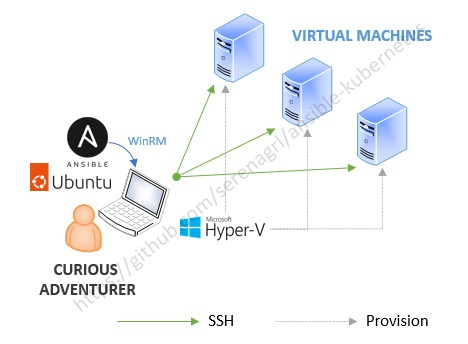
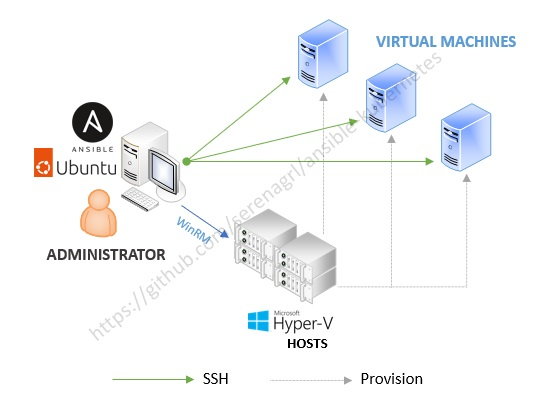
Updated diagram.

diff --git a/README.md b/README.md
@@ -1,5 +1,3 @@
-![Kubernetes on Hyper-V (Using Ansible)](docs/images/ansible-kubernetes.jpg)
-
 # Kubernetes on Hyper-V
 A collection of Ansible playbooks and roles to create a Kubernetes cluster on Hyper-V, either for testing/learning purposes or SIT/Proof-of-Concept environments. These playbooks and add-ons were tailored to my lab environment and were not intended to be an all-purpose "installer" for Kubernetes. Therefore, please feel free to customize them as you see fit.
 
@@ -87,6 +85,12 @@ Recommendations for **Kubernetes Cluster** VMs are as follows:
 The recommendation for **disk size** is the VM default of **127GB** but when using CSIs such as Longhorn or Rook-ceph, it is recommended to set the disk size to **256GB** to support the pod request limits.
 
 ## Setting Up Your Environment
+
+The environment that you are preparing will somewhat resemble the below diagram. You can also setup everything on a single notebook or PC.
+
+<p align="center">
+  <img src="docs/images/ansible-kubernetes.jpg" alt="Kubernetes on Hyper-V (Using Ansible)"/>
+</p>
 
 It is recommended that you download and install [Visual Studio Code](https://code.visualstudio.com/) and enable the [Ansible VS Code Extension by Red Hat](https://marketplace.visualstudio.com/items?itemName=redhat.ansible) from the marketplace to work with the playbooks.
 
